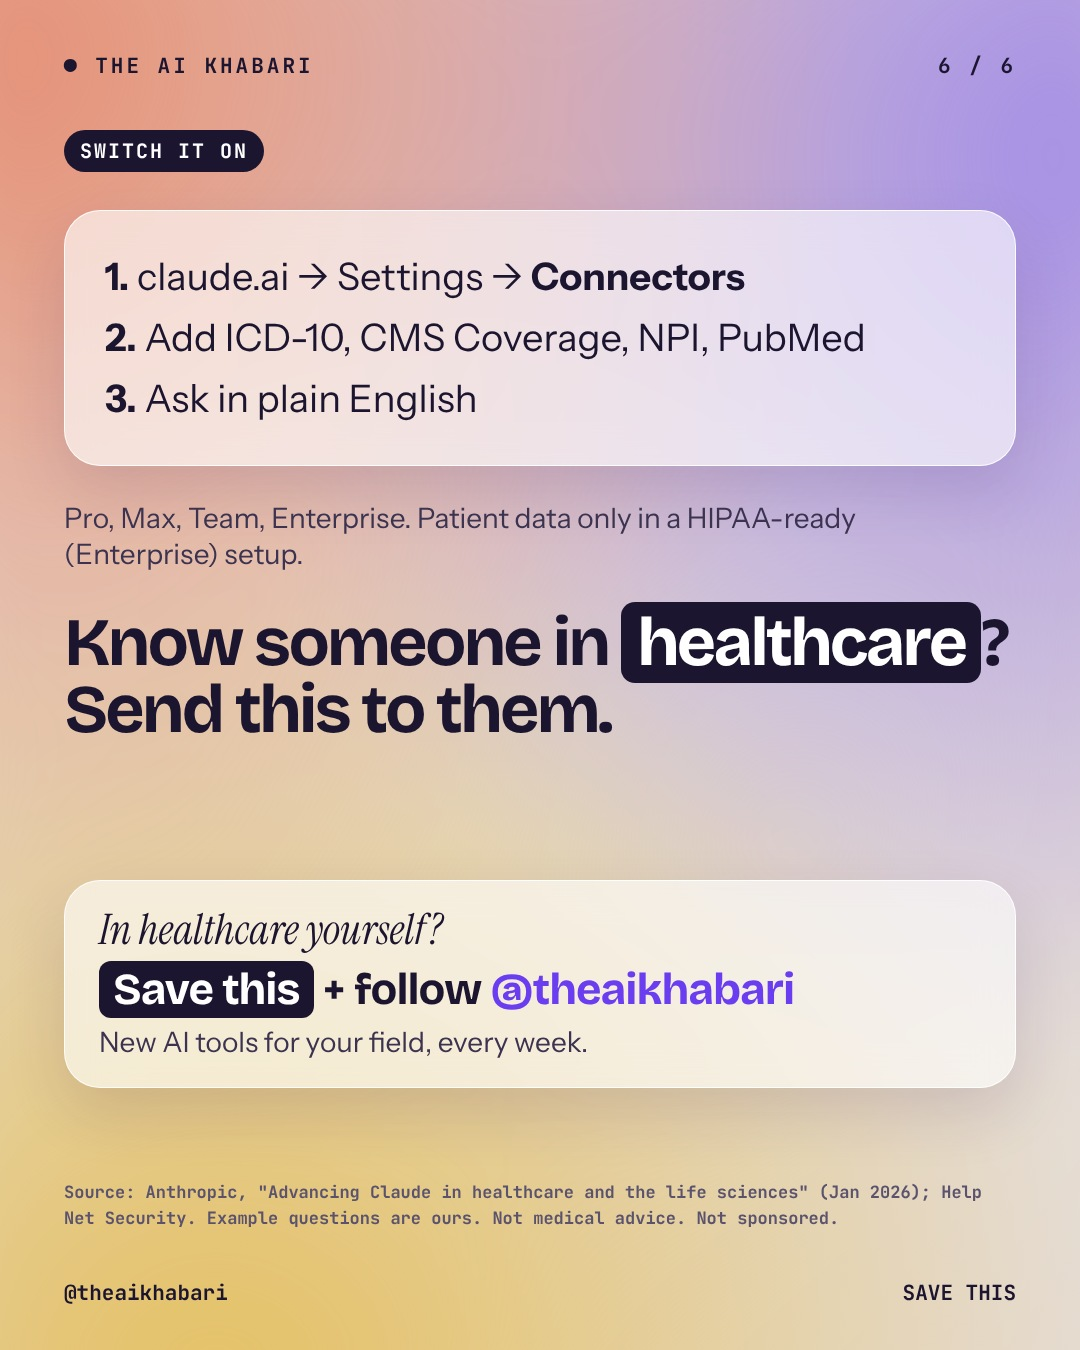
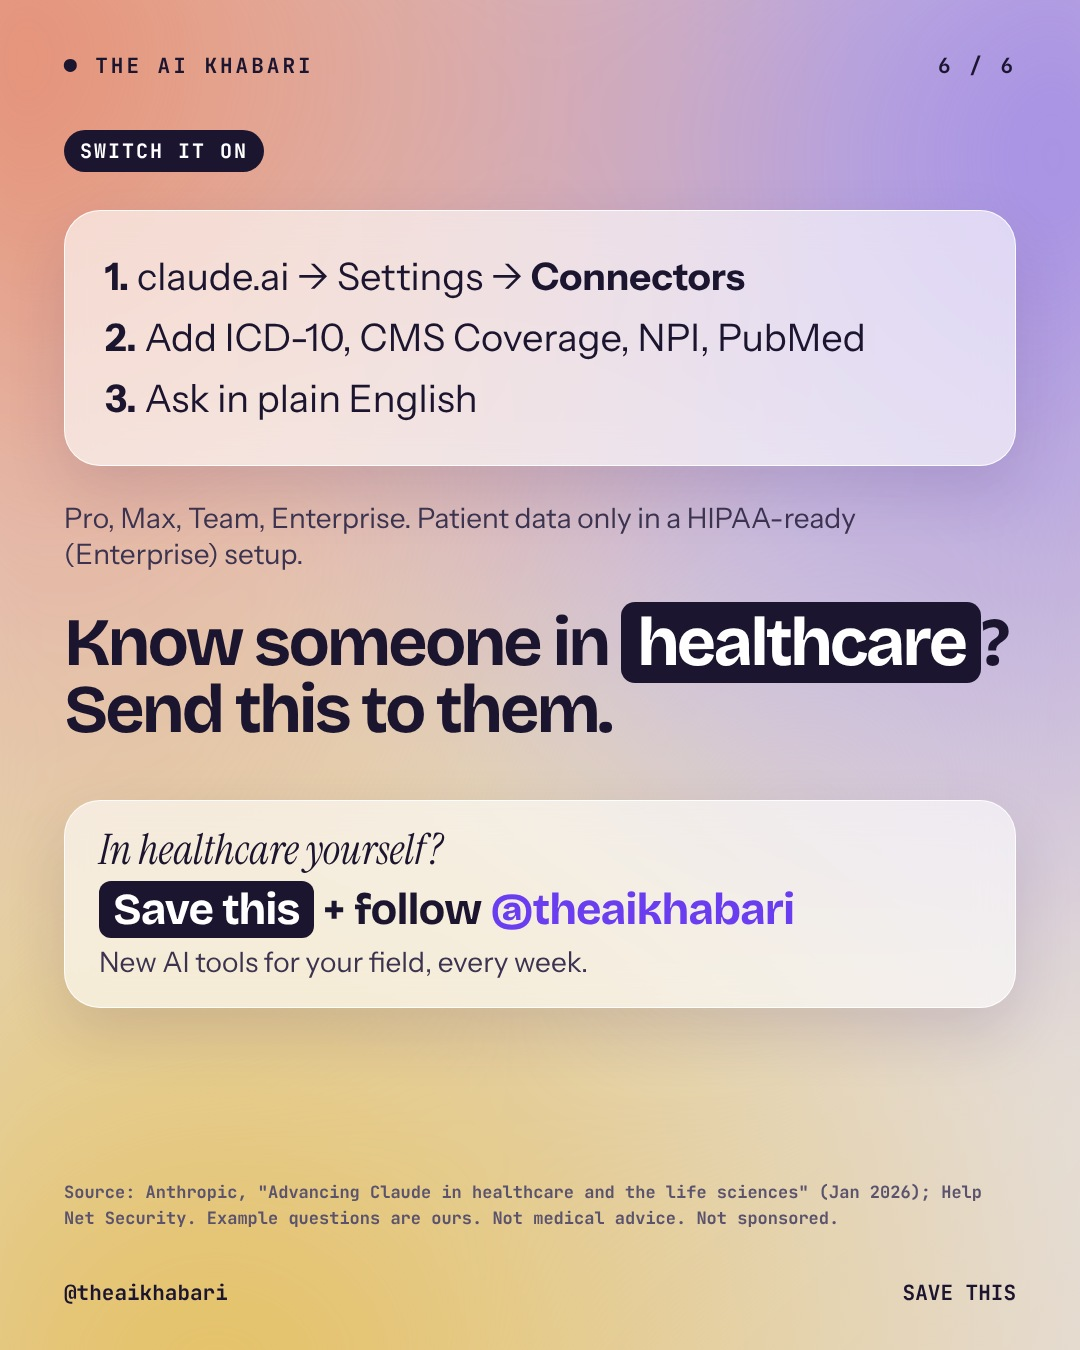
Healthcare carousel final + playbook: approved mesh carousel look and CTA
Claude-Session: https://claude.ai/code/session_01LQ7Myr8fmpLaNjf994KEDc

Changed region(s): [[0.0611, 0.5911, 0.9472, 0.8089]]

diff --git a/tools/examples/health_carousel_build.py b/tools/examples/health_carousel_build.py
@@ -78,7 +78,7 @@ S.append(f"""<div class=a style="left:64px;top:130px"><span class=chip>SWITCH IT
 <b>1.</b> claude.ai &rarr; Settings &rarr; <b>Connectors</b><br><b>2.</b> Add ICD-10, CMS Coverage, NPI, PubMed<br><b>3.</b> Ask in plain English</div>
 <div class="a t" style="left:64px;right:64px;top:500px;font-size:28px">Pro, Max, Team, Enterprise. Patient data only in a HIPAA-ready (Enterprise) setup.</div>
 <div class="a d" style="left:64px;right:64px;top:610px;font-size:68px">Know someone in <span class=hl>healthcare</span>? Send this to them.</div>
-<div class="a glass" style="left:64px;right:64px;top:880px;padding:26px 34px">
+<div class="a glass" style="left:64px;right:64px;top:800px;padding:26px 34px">
  <div class="s" style="font-size:42px;line-height:1.1">In healthcare yourself?</div>
  <div style="font-family:Disp;font-size:44px;letter-spacing:-1px;margin-top:10px"><span style="background:#1C1530;color:#fff;padding:2px 14px;border-radius:12px">Save this</span> + follow <span style="color:#6B3DF0">@theaikhabari</span></div>
  <div class=t style="font-size:28px;margin-top:8px">New AI tools for your field, every week.</div></div>

diff --git a/notes/playbook.md b/notes/playbook.md
@@ -122,6 +122,7 @@ Carousel formats that drive saves AND shares: tool-swap tables ("Paying for X? U
 - Repo hygiene: after every post of the day is live, delete that day's media and squash history (see daily message).
 
 ## 8. Feedback log (newest first) — add a line every time the owner reacts
+- **10-23 (5) APPROVED CAROUSEL LOOK (owner: 'background is very nice'):** soft gradient mesh (peach #FF9E80 / lavender #B69CFF / gold #FFD66B on #FFF6EF, blurred radial gradients, ~10% grain) + white frosted-glass cards + dark ink chips/highlights (tools/examples/health_carousel_build.py). Split dense posters into a carousel (one idea per slide). LAST SLIDE CTA: broad share line to the whole field ('Know someone in healthcare? Send this to them.') + 'In [field] yourself? Save this + follow @theaikhabari — new AI tools for your field, every week' to grow followers.
 - **10-23 (4) SPECIALISED ONLY (owner):** even the Zillow/Photoshop apps post was 'random, anyone could do that'. Posts must be INDUSTRY-SPECIALISED: real industry-specific Skills (SKILL.md / AGENTS.md), MCP connectors and plugins that exist today in Claude or ChatGPT (e.g. Claude for Healthcare: ICD-10, CMS Coverage, NPI Registry, PubMed connectors + Prior-auth and Clinical-trial-protocol skills; Claude for Financial Services: S&P Capital IQ, PitchBook, Morningstar etc.), plus one specialised prompt that USES them. Format: one dense, clean POSTER (1080x1350) per industry. Real estate parked for now. Built: tools/examples/health_poster_build.py.
 - **10-23 (3) TOOLS > PROMPTS (owner):** generic prompts (even good ones) are 'not that effective'. Industry posts should show EXISTING add-ons people can plug in: apps inside ChatGPT (type the app name first: 'Zillow,' 'Photoshop,' 'Canva,' 'Acrobat,' — Adobe apps free since Dec 2025), Claude Skills (Settings > Capabilities > Skills > Upload skill, ZIP with SKILL.md; Pro/Max/Team/Enterprise; partner skills in the Skills Directory), Claude connectors. One industry per post, real workflow per app, cheat-sheet slide. Next ideas: jewellers/product sellers (Photoshop + Canva + Shopify), architects (Figma/Canva/Acrobat + skills), photographers & video editors (Photoshop, Descript/Canva), doctors (Claude for Healthcare). Verify every app + exact usage with 2 sources.
 - **10-23 (2) INDUSTRY PROMPT POSTS (owner):** no more coding / coding-interview carousels for now. Make industry-specific posts people forward (real estate, architects, jewellery, photo/video editing, doctors/pharma, small business...). Research what that industry actually does with AI first; 2-3 SPECIFIC prompts max (fill-in facts, a real constraint/risk, why it works), never 'act as a specialist' fluff. Include NEW in-app features where real: app integrations (e.g. 'Zillow,' inside ChatGPT), Claude skills / plugins / slash commands, industry editions (Claude for Financial Services, Healthcare & Life Sciences) — verify each feature + exact usage with 2 sources.
